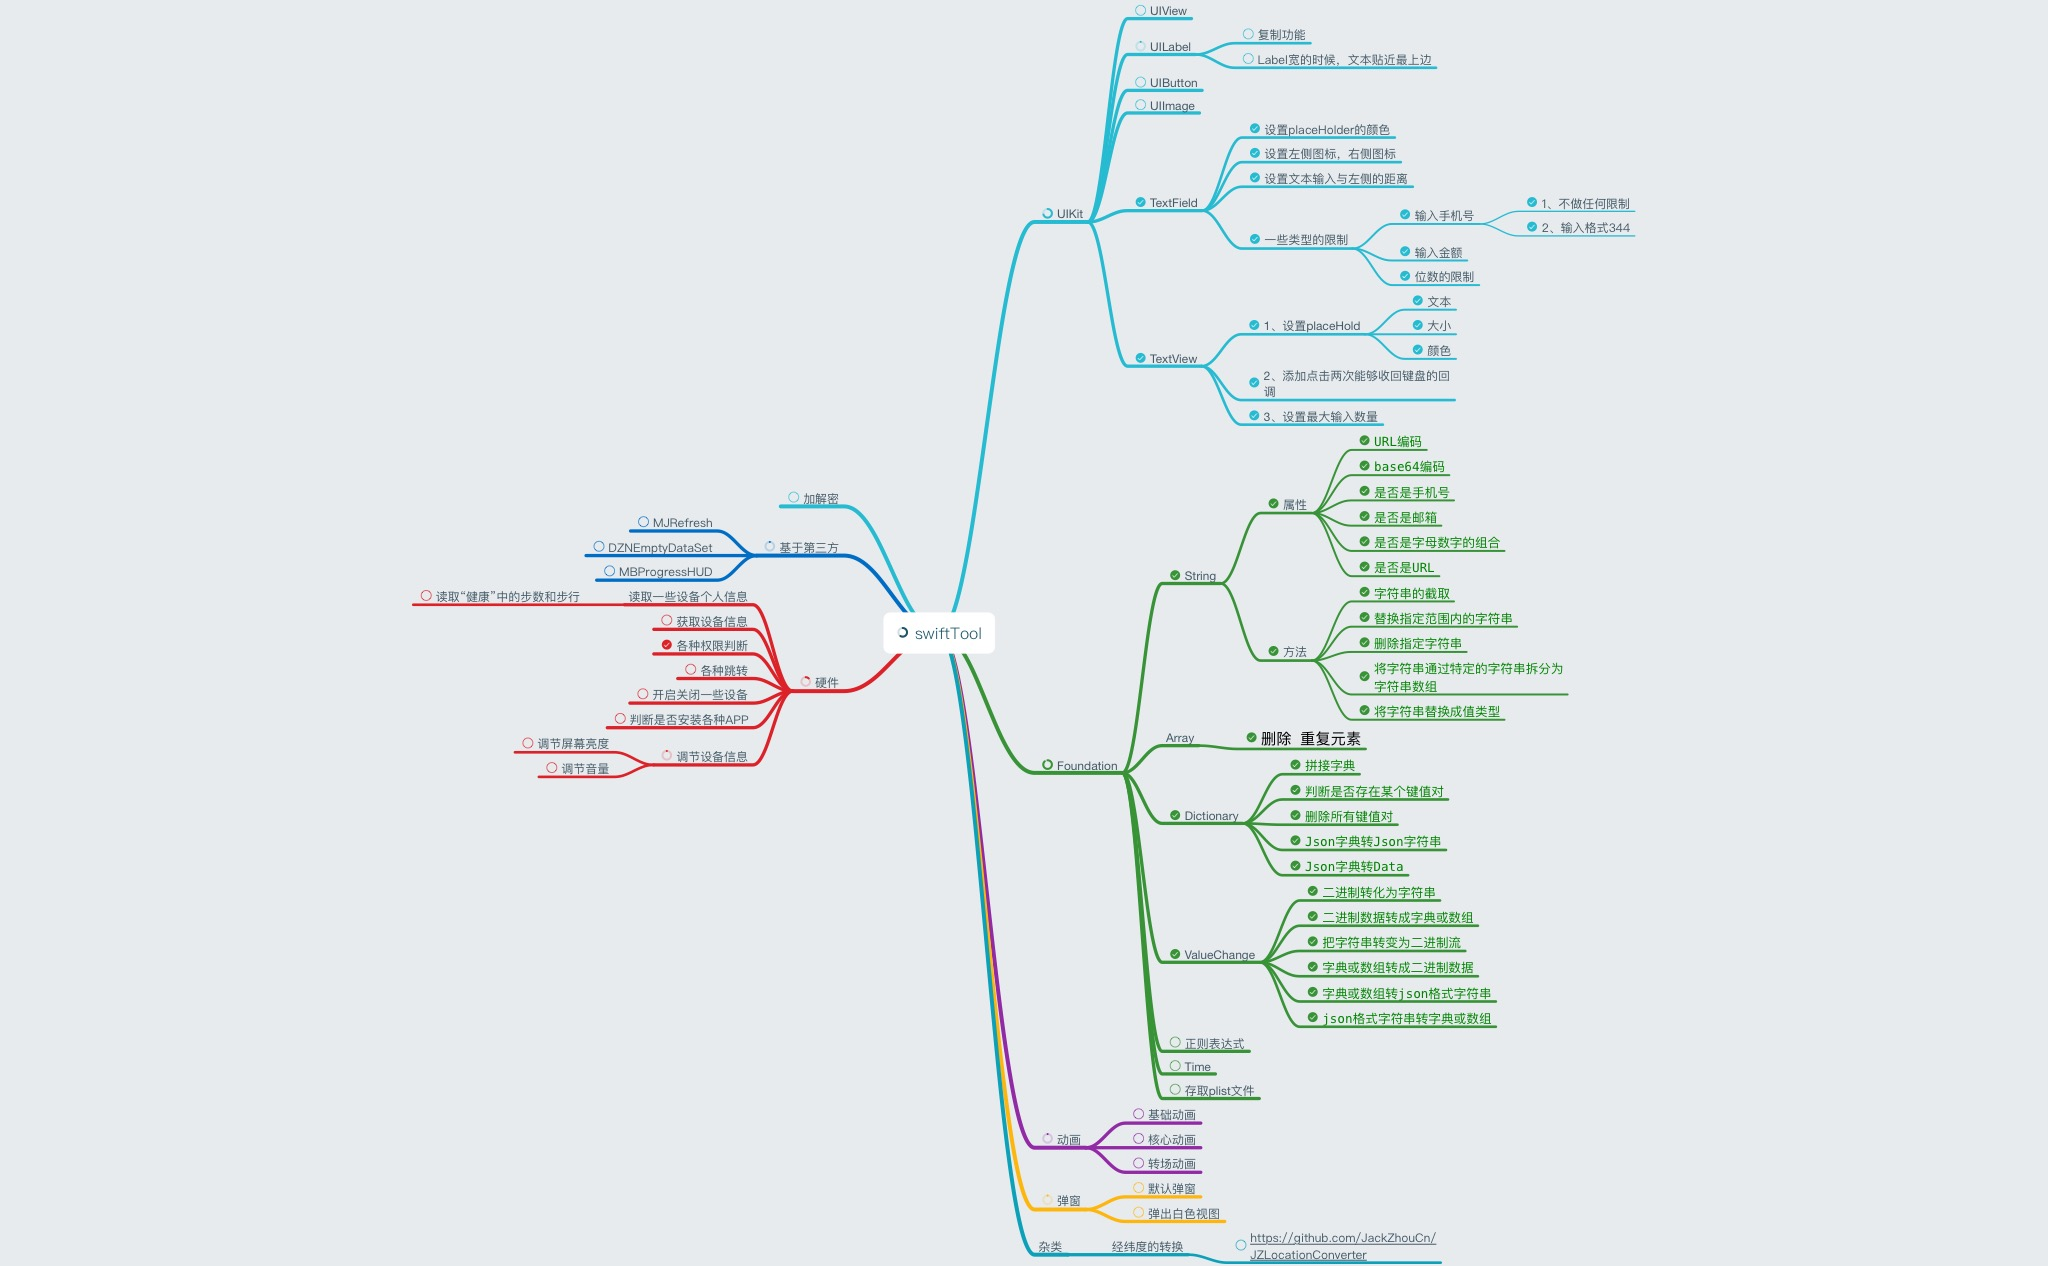
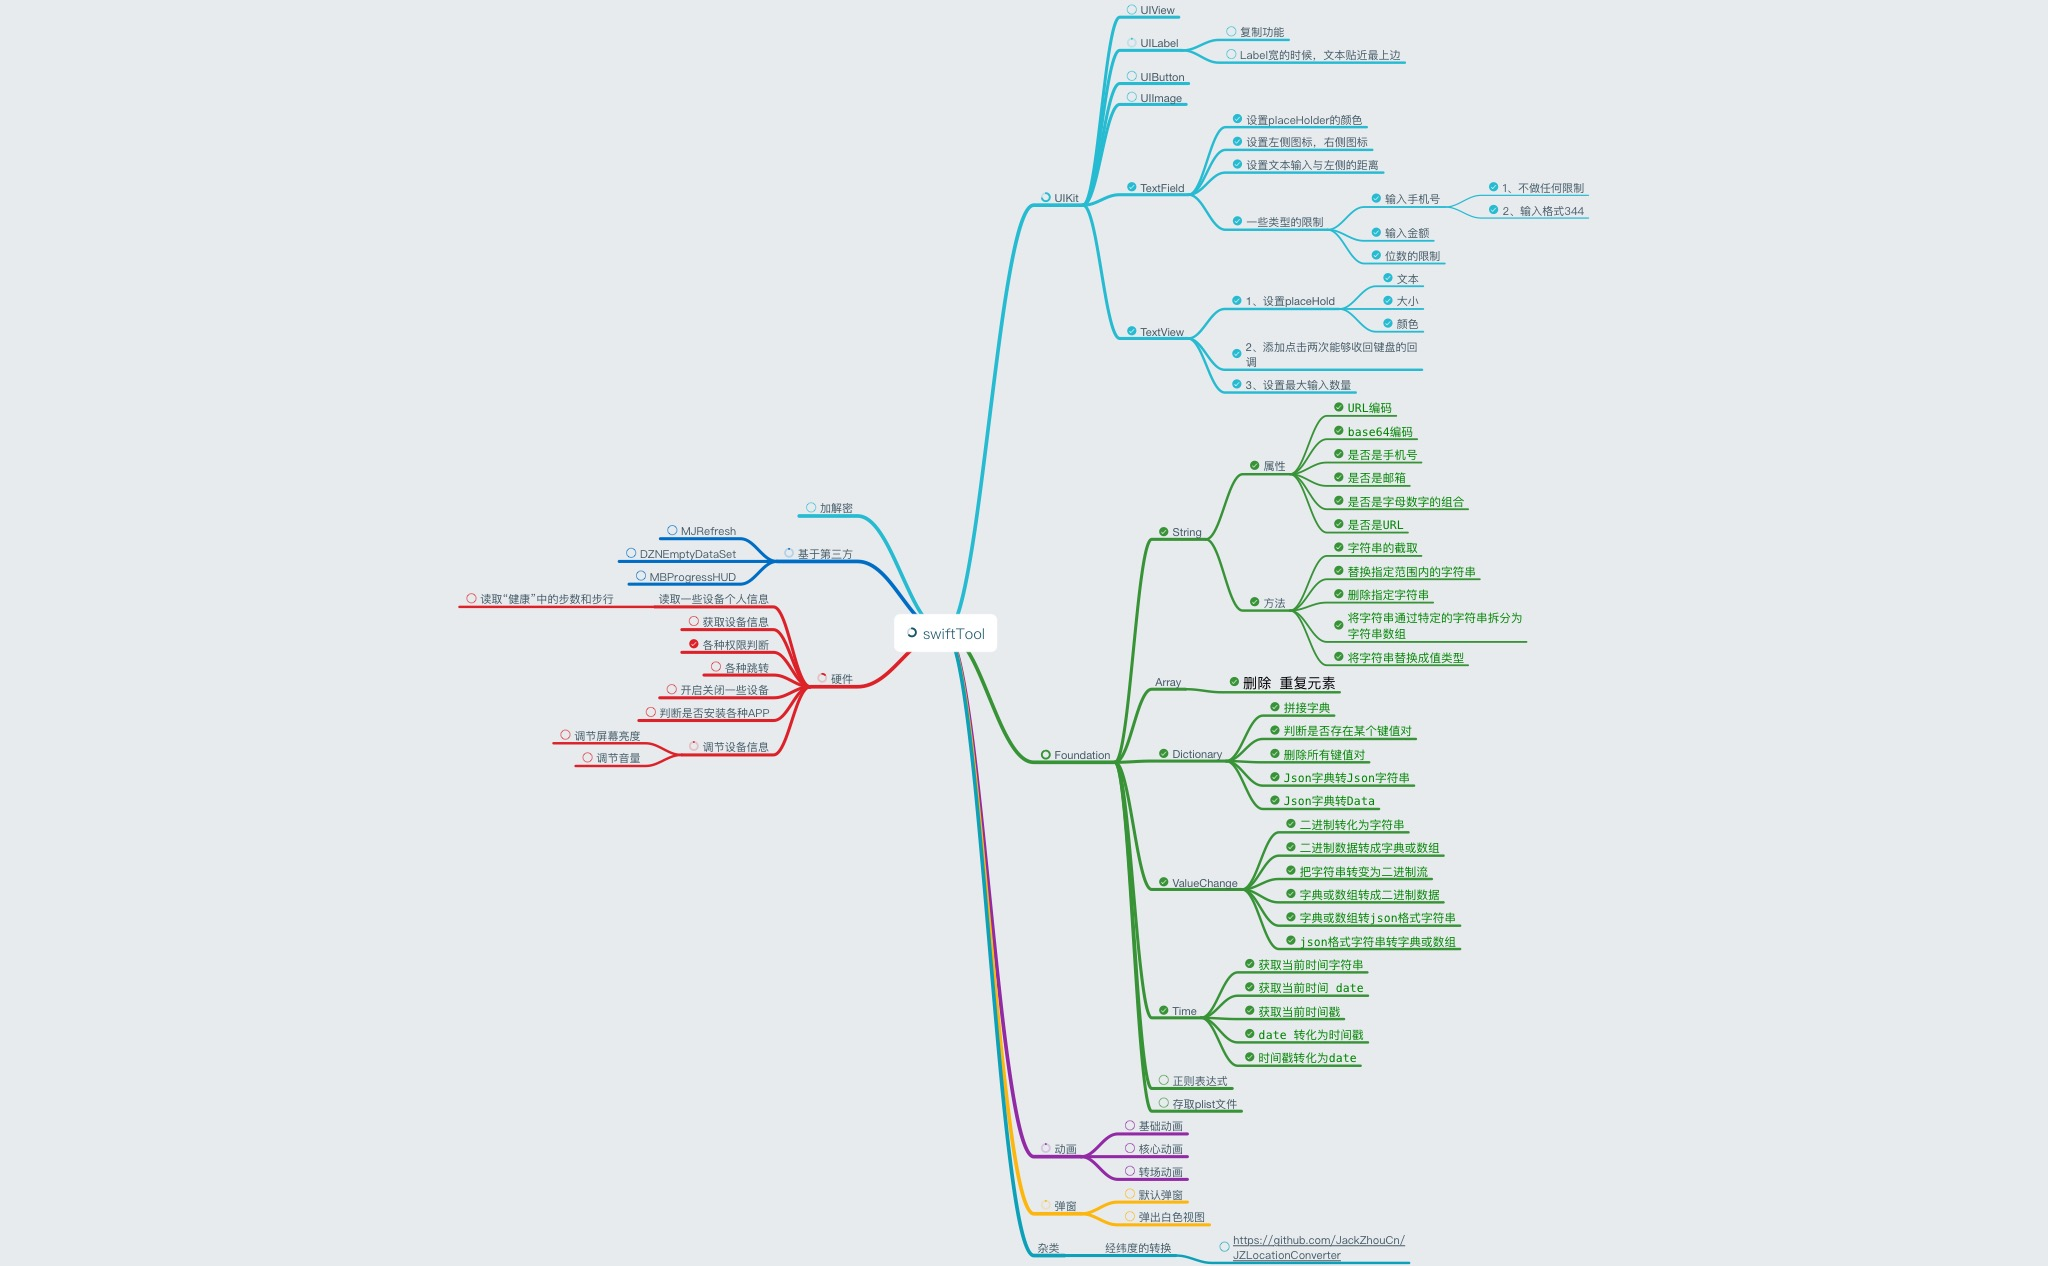
添加时间扩展

diff --git a/SwiftTool/Foundation/Date+JHExtension.swift b/SwiftTool/Foundation/Date+JHExtension.swift
@@ -1,0 +1,133 @@
+//
+//  Date+JHExtension.swift
+//  SwiftToolTest
+//
+//  Created by yunna on 2018/5/22.
+//  Copyright © 2018年 yunna. All rights reserved.
+//
+
+import UIKit
+
+//MARK:-- 常用方法 --
+extension Date{
+    ///获取当前时间字符串
+    public var CurrentStingTime:String{
+        let dateFormatter = DateFormatter.init()
+        dateFormatter.dateFormat = "YYYY-MM-dd HH:mm:ss"
+        let dataString = dateFormatter.string(from: self)
+        return dataString
+    }
+     
+    /// 获取当前时间 date
+    public var CurrentDateTime:Date{
+        let date = Date.init(timeInterval: 60*60*8, since: self)
+        return date
+    }
+    
+    ///获取当前时间戳
+    public var CurrentStampTime:u_long{
+        let date = Date.init(timeInterval: 60*60*8, since: self)
+        let stamp = date.timeIntervalSince1970
+        return u_long(stamp)
+    }
+    
+    /// date 转化为时间戳
+    func StampTime(from date:Date) ->  u_long{
+        return u_long(self.timeIntervalSince1970)
+    }
+    /// 时间戳转化为date
+    func date(from StampTime:u_long) -> Date {
+        //转换为时间
+        let timeInterval:TimeInterval = TimeInterval(StampTime)
+        let date = NSDate(timeIntervalSince1970: timeInterval)
+        let dateformatter = DateFormatter()
+        dateformatter.dateFormat = "yyyy年MM月dd日 HH:mm:ss"
+
+        return date as Date
+    }
+    
+
+    
+}
+//MARK: -- 其他 --
+extension Date{
+    /// 年
+    public var year: Int {
+        return NSCalendar.current.component(.year, from: self)
+    }
+    /// 月
+    public var month: Int {
+        return NSCalendar.current.component(.month, from: self)
+    }
+    /// 日
+    public var day: Int {
+        return NSCalendar.current.component(.day, from: self)
+    }
+    /// 周几
+    public var weekday: String {
+        let weekdays = [NSNull.init(),"星期天","星期一","星期二","星期三","星期四","星期五","星期六"] as [Any]
+        var calendar = Calendar(identifier:.gregorian)
+        
+        let timeZone = NSTimeZone.init(name: "Asia/Shanghai")
+        
+        calendar.timeZone = timeZone! as TimeZone
+        
+        let theComponents = calendar.dateComponents([.year,.month, .day,.weekday, .hour,.minute,.second], from: self)
+        
+        return weekdays[theComponents.weekday!] as! String
+    }
+    
+    /// 是否在将来
+    public var isFuture: Bool {
+        return self > Date()
+    }
+    
+    /// 是否在过去
+    public var isPast: Bool {
+        return self < Date()
+    }
+    /// 是否是今天
+    public var isToday: Bool {
+        let format = DateFormatter()
+        format.dateFormat = "yyyy-MM-dd"
+        return format.string(from: self) == format.string(from: Date())
+    }
+    
+    /// 是否是昨天
+    public var isTomorrow: Bool {
+        let format = DateFormatter()
+        format.dateFormat = "yyyy-MM-dd"
+        let tomorrow = Calendar.current.date(byAdding: .day, value: 1, to: Date())
+        return format.string(from: self) == format.string(from: tomorrow!)
+    }
+  
+}
+
+
+
+
+
+
+
+
+
+
+
+
+
+
+
+
+
+
+
+
+
+
+
+
+
+
+
+
+

diff --git a/SwiftToolTest/SwiftToolTest/SwiftTool/Foundation/Date+JHExtension.swift b/SwiftToolTest/SwiftToolTest/SwiftTool/Foundation/Date+JHExtension.swift
@@ -1,0 +1,133 @@
+//
+//  Date+JHExtension.swift
+//  SwiftToolTest
+//
+//  Created by yunna on 2018/5/22.
+//  Copyright © 2018年 yunna. All rights reserved.
+//
+
+import UIKit
+
+//MARK:-- 常用方法 --
+extension Date{
+    ///获取当前时间字符串
+    public var CurrentStingTime:String{
+        let dateFormatter = DateFormatter.init()
+        dateFormatter.dateFormat = "YYYY-MM-dd HH:mm:ss"
+        let dataString = dateFormatter.string(from: self)
+        return dataString
+    }
+     
+    /// 获取当前时间 date
+    public var CurrentDateTime:Date{
+        let date = Date.init(timeInterval: 60*60*8, since: self)
+        return date
+    }
+    
+    ///获取当前时间戳
+    public var CurrentStampTime:u_long{
+        let date = Date.init(timeInterval: 60*60*8, since: self)
+        let stamp = date.timeIntervalSince1970
+        return u_long(stamp)
+    }
+    
+    /// date 转化为时间戳
+    func StampTime(from date:Date) ->  u_long{
+        return u_long(self.timeIntervalSince1970)
+    }
+    /// 时间戳转化为date
+    func date(from StampTime:u_long) -> Date {
+        //转换为时间
+        let timeInterval:TimeInterval = TimeInterval(StampTime)
+        let date = NSDate(timeIntervalSince1970: timeInterval)
+        let dateformatter = DateFormatter()
+        dateformatter.dateFormat = "yyyy年MM月dd日 HH:mm:ss"
+
+        return date as Date
+    }
+    
+
+    
+}
+//MARK: -- 其他 --
+extension Date{
+    /// 年
+    public var year: Int {
+        return NSCalendar.current.component(.year, from: self)
+    }
+    /// 月
+    public var month: Int {
+        return NSCalendar.current.component(.month, from: self)
+    }
+    /// 日
+    public var day: Int {
+        return NSCalendar.current.component(.day, from: self)
+    }
+    /// 周几
+    public var weekday: String {
+        let weekdays = [NSNull.init(),"星期天","星期一","星期二","星期三","星期四","星期五","星期六"] as [Any]
+        var calendar = Calendar(identifier:.gregorian)
+        
+        let timeZone = NSTimeZone.init(name: "Asia/Shanghai")
+        
+        calendar.timeZone = timeZone! as TimeZone
+        
+        let theComponents = calendar.dateComponents([.year,.month, .day,.weekday, .hour,.minute,.second], from: self)
+        
+        return weekdays[theComponents.weekday!] as! String
+    }
+    
+    /// 是否在将来
+    public var isFuture: Bool {
+        return self > Date()
+    }
+    
+    /// 是否在过去
+    public var isPast: Bool {
+        return self < Date()
+    }
+    /// 是否是今天
+    public var isToday: Bool {
+        let format = DateFormatter()
+        format.dateFormat = "yyyy-MM-dd"
+        return format.string(from: self) == format.string(from: Date())
+    }
+    
+    /// 是否是昨天
+    public var isTomorrow: Bool {
+        let format = DateFormatter()
+        format.dateFormat = "yyyy-MM-dd"
+        let tomorrow = Calendar.current.date(byAdding: .day, value: 1, to: Date())
+        return format.string(from: self) == format.string(from: tomorrow!)
+    }
+  
+}
+
+
+
+
+
+
+
+
+
+
+
+
+
+
+
+
+
+
+
+
+
+
+
+
+
+
+
+
+

diff --git a/SwiftToolTest/SwiftToolTest/Foundation/TimeController.swift b/SwiftToolTest/SwiftToolTest/Foundation/TimeController.swift
@@ -1,0 +1,41 @@
+//
+//  TimeController.swift
+//  SwiftToolTest
+//
+//  Created by yunna on 2018/5/22.
+//  Copyright © 2018年 yunna. All rights reserved.
+//
+
+import UIKit
+
+class TimeController: UIViewController {
+
+    override func viewDidLoad() {
+        super.viewDidLoad()
+
+        //MARK:  -- 常用方法 -- 
+        //获取当前时间字符串
+        print(Date().CurrentStingTime)
+        // 获取当前时间 date
+        print(Date().CurrentDateTime)
+        // date 转化为时间戳
+        let date = Date().CurrentDateTime
+        let StampTime = date.StampTime(from: date)
+        print(StampTime)
+        // 时间戳转化为date
+        let date1 = Date().date(from: StampTime)
+        print(date1)
+        
+        //MARK: -- 其他 --
+        print(date.year)
+        print(date.month)
+        print(date.day)
+        print(date.weekday)
+        print(date.isToday)
+        print(date.isTomorrow)
+        
+    }
+
+   
+
+}

diff --git a/README.md b/README.md
@@ -100,7 +100,29 @@
  |class func data(from array:Array<Any>) -> Data {}|数组转data|
  |class func array(from data:Data) -> Array<Any> {}|data转数组|
  
+  ### Date扩展
+  #### 存储属性
+  |名称|说明|
+  |---|:---:|
+  |CurrentStingTime|获取当前时间字符串|
+  |CurrentDateTime|获取当前时间 date|
+  |CurrentStampTime|获取当前时间戳|
+  |year|年|
+  |month|月|
+  |day|日|
+  |weekday|周几|
+  |isFuture|是否在将来|
+  |isPast|是否在过去|
+  |isToday|是否是今天|
+  |isTomorrow|是否是昨天|
+  
+#### 方法
+|名称|说明|
+|---|:---:|
+|func StampTime(from date:Date) ->  u_long{}|date 转化为时间戳|
+|func date(from StampTime:u_long) -> Date {}|时间戳转化为date|
  
+  
  
  ## 硬件
  关于硬件方面我分了一下几个方面
